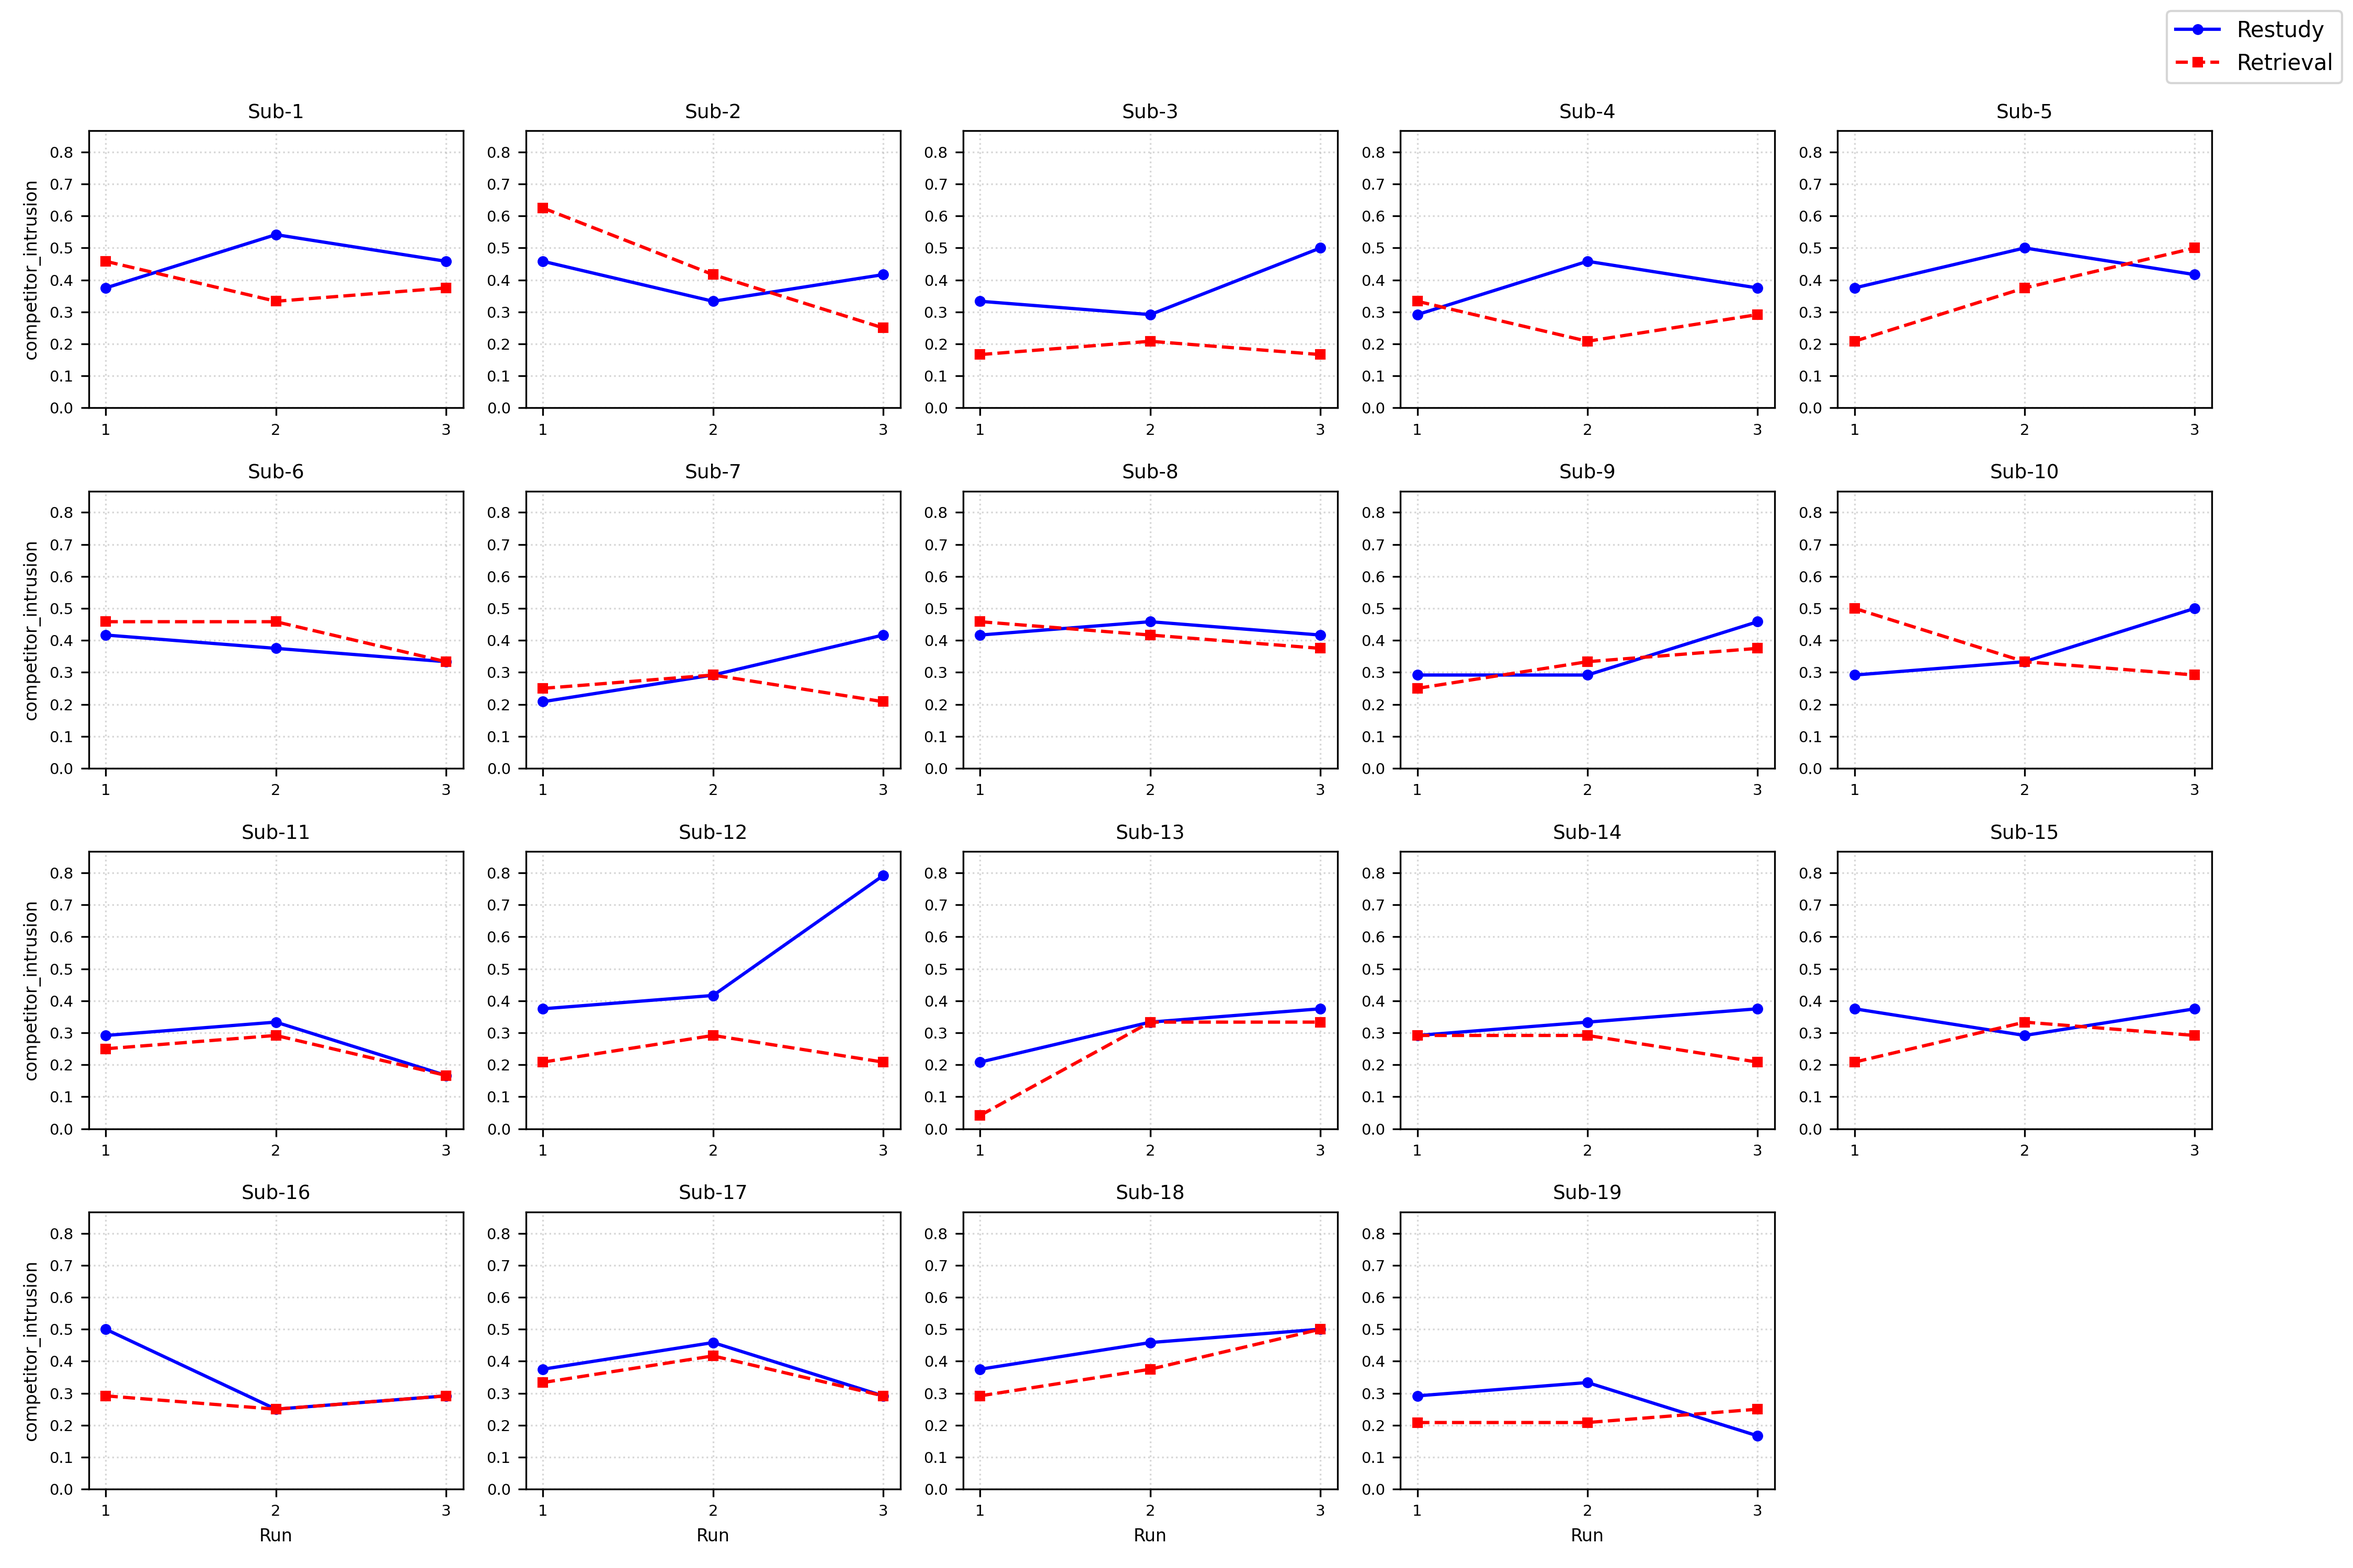
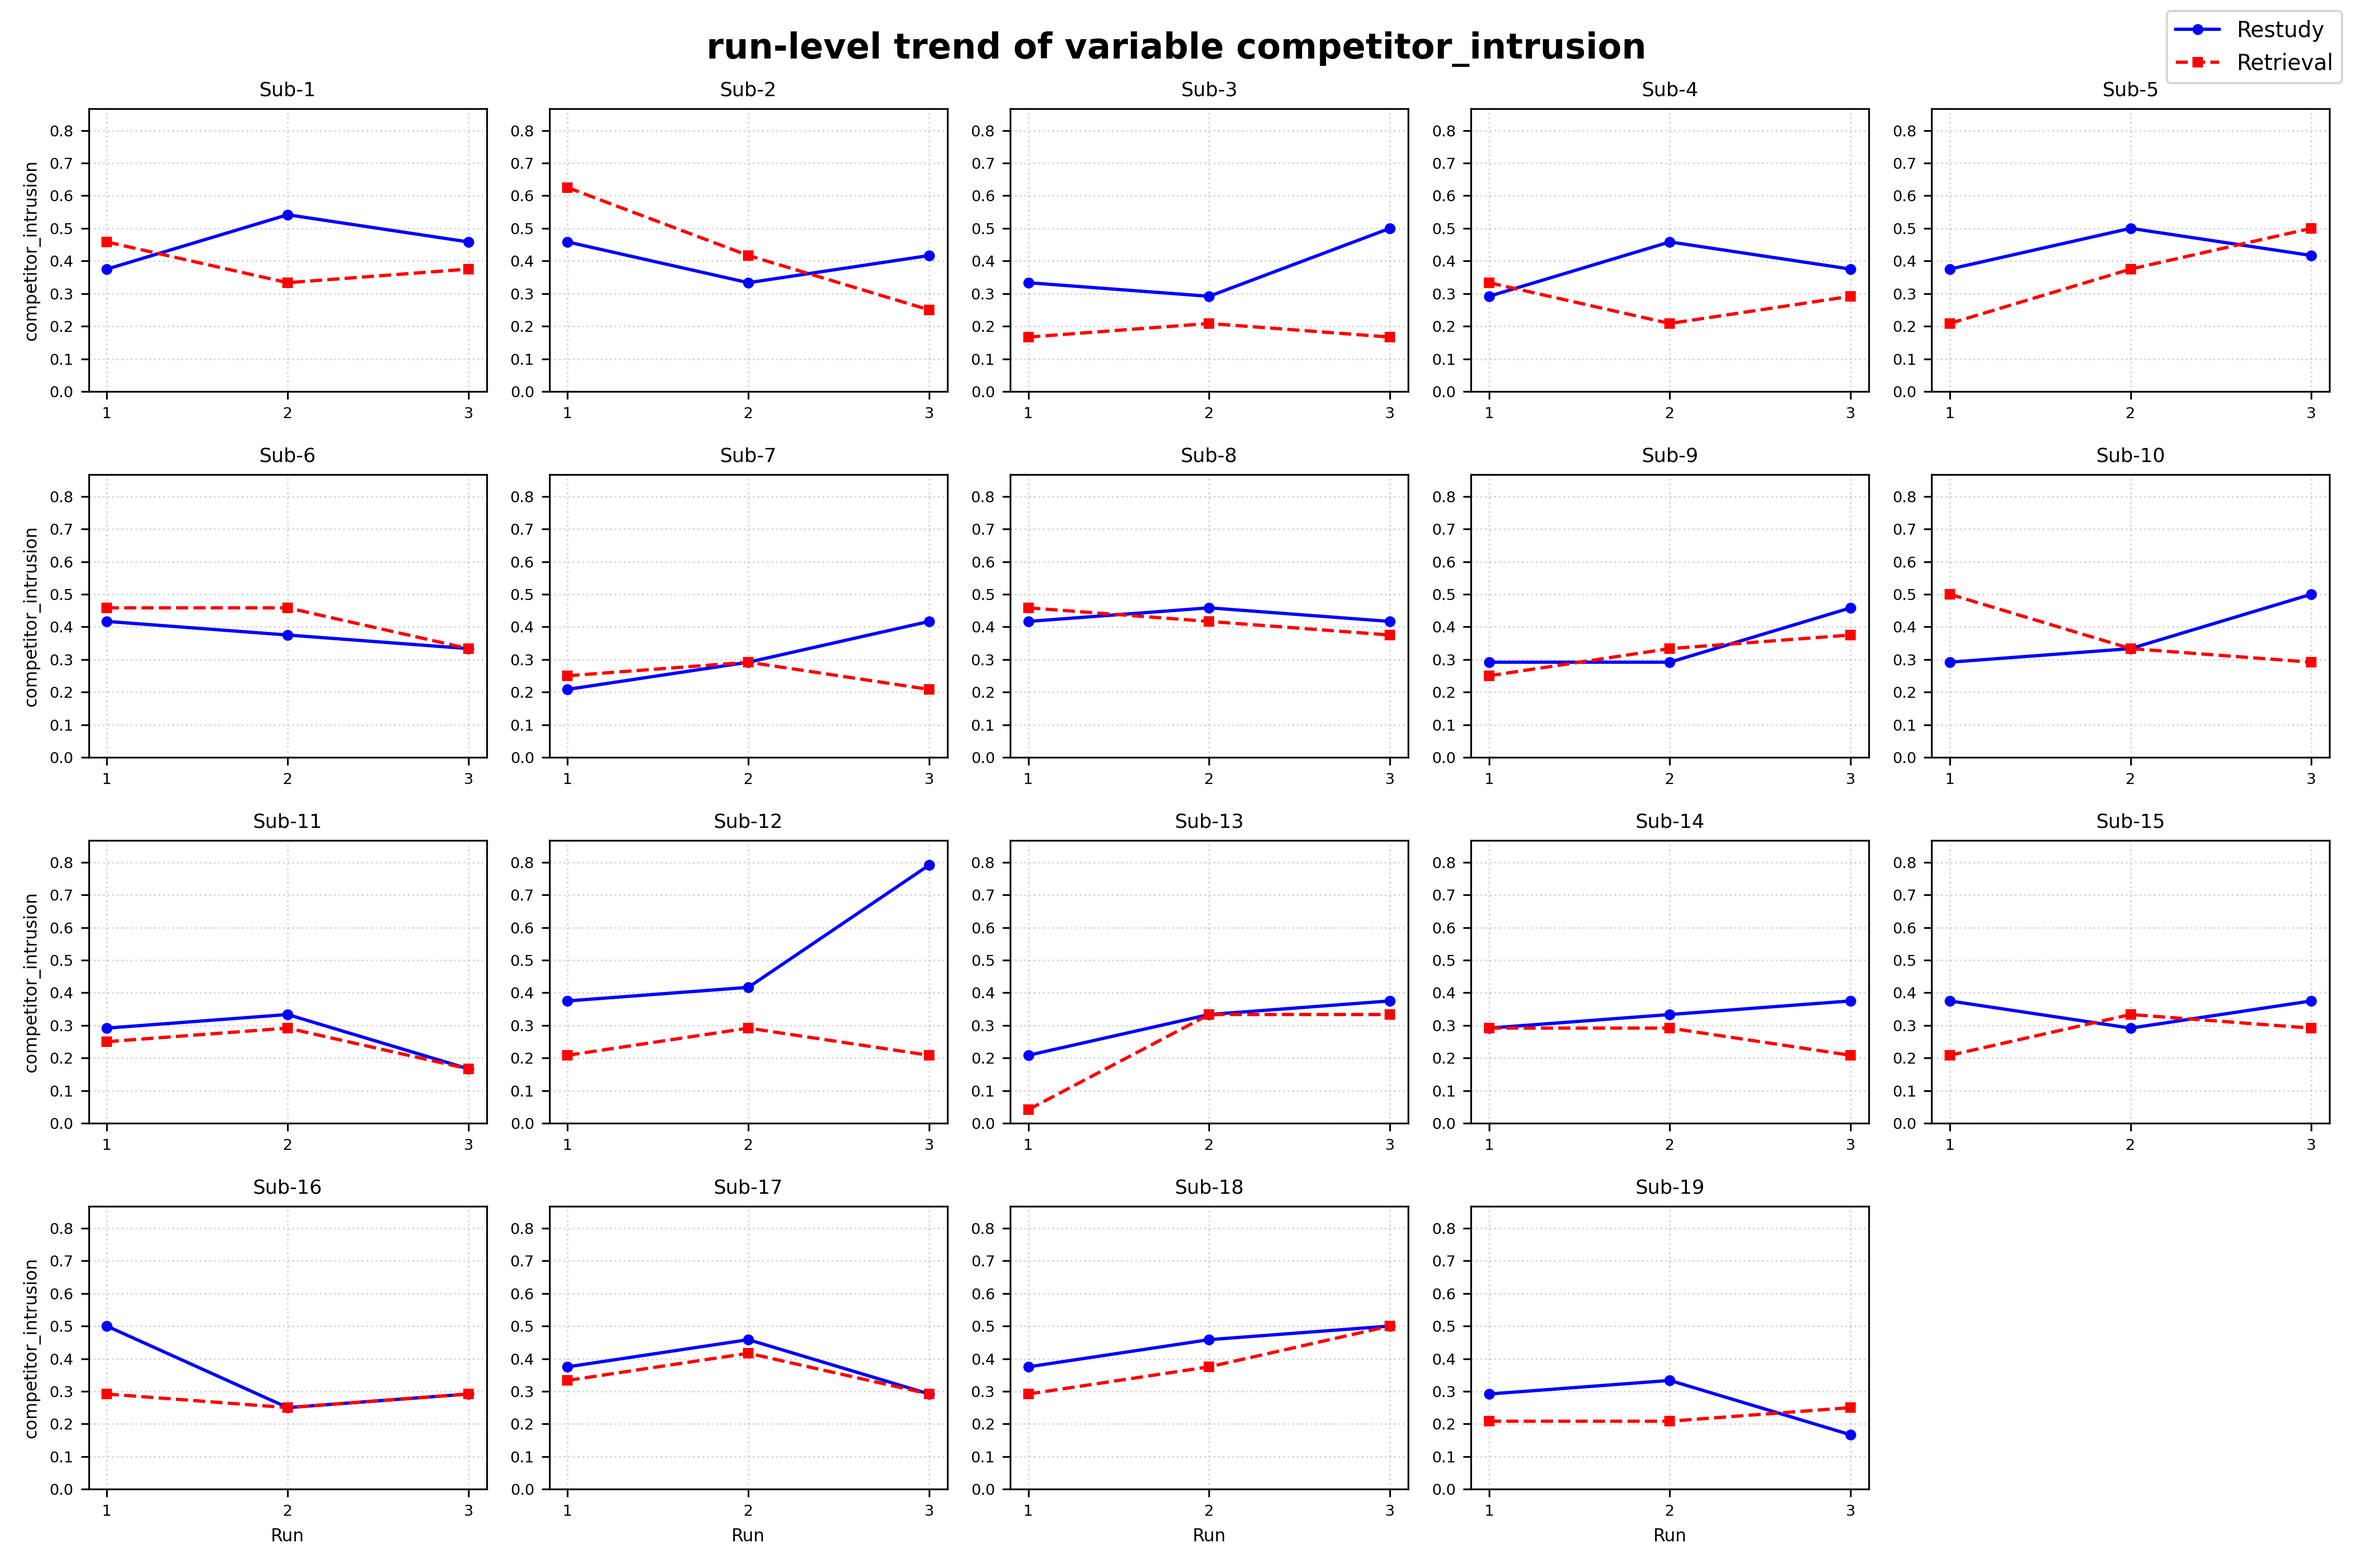
holm correct import correct lib run-level participant-difference correlation

diff --git a/codings/core calculation/cal_5.py b/codings/core calculation/cal_5.py
@@ -1,0 +1,97 @@
+# this file is used to make ANOVA and LMM of Condition * Runs
+import pandas as pd
+from statsmodels.formula.api import mixedlm
+from statsmodels.stats.anova import AnovaRM
+import os
+import csv
+import sys
+import matplotlib.pyplot as plt
+import numpy as np
+import scipy.stats as stats
+
+FILE_NAME = 'results/statistics_result_in_runs.tsv'
+
+def main():
+
+    OUTPUT_FILE = 'results/run-level_results.txt'
+    log_file = open(OUTPUT_FILE, 'a', encoding='utf-8')
+    sys.stdout = log_file
+
+    df = pd.read_csv(FILE_NAME, sep='\t')
+    
+    target_cols = ['restudy_target', 'retrieval_target']
+    df_target = df.melt(
+        id_vars=['sub_id', 'run_id'],
+        value_vars=target_cols,
+        var_name='condition',
+        value_name='target_accuracy'
+    )
+    df_target['condition'] = df_target['condition'].map({
+        'restudy_target': 'restudy',
+        'retrieval_target': 'retrieval'
+    })
+
+    ### print(df_target)
+    
+    competitor_cols = ['restudy_competitor', 'retrieval_competitor']
+    df_competitor = df.melt(
+        id_vars=['sub_id', 'run_id'],
+        value_vars=competitor_cols,
+        var_name='condition',
+        value_name='competitor_accuracy'
+    )
+    df_competitor['condition'] = df_competitor['condition'].map({
+        'restudy_competitor': 'restudy',
+        'retrieval_competitor': 'retrieval'
+    })
+    
+
+    rt_cols = ['restudy_median_correct_response_latency', 'retrieval_median_correct_response_latency']
+    df_rt = df.melt(
+        id_vars=['sub_id', 'run_id'],
+        value_vars=rt_cols,
+        var_name='condition',
+        value_name='median_rt'
+    )
+    df_rt['condition'] = df_rt['condition'].map({
+        'restudy_median_correct_response_latency': 'restudy',
+        'retrieval_median_correct_response_latency': 'retrieval'
+    })
+    
+
+    df_long = df_target.merge(df_competitor, on=['sub_id', 'run_id', 'condition']) \
+                       .merge(df_rt, on=['sub_id', 'run_id', 'condition'])
+    
+
+    df_long['sub_id'] = df_long['sub_id'].astype('category')
+    df_long['run_id'] = df_long['run_id'].astype('category')
+    df_long['condition'] = df_long['condition'].astype('category')
+
+    # print(df_long)
+
+    for dep, name in [('target_accuracy', 'target recall'),
+                      ('competitor_accuracy', 'competitor intrusion'),
+                      ('median_rt', 'correct response latency')]:
+        analyze_anova(dep, name, df_long=df_long)
+
+
+    sys.stdout = sys.__stdout__
+    log_file.close()
+
+    print("finish")
+
+
+
+def analyze_anova(dep_var, dep_name, df_long):
+
+    print(f"ANOVA: {dep_name} ({dep_var})")
+
+    res = AnovaRM(df_long, depvar=dep_var, subject='sub_id', 
+                  within=['condition', 'run_id'], aggregate_func='mean').fit()
+    
+    print(res)
+    return res
+
+if __name__ == '__main__':
+
+    main()

diff --git a/codings/core calculation/cal_4.py b/codings/core calculation/cal_4.py
@@ -12,7 +12,7 @@ import numpy as np
 
 DECIMAL_PLACES = 5
 FILE_NAME = 'statistics_result_in_runs.tsv'
-OUTPUT_DIR = 'figures'
+OUTPUT_DIR = 'results/figures'
 
 def main():
 
@@ -62,7 +62,7 @@ def main():
 
 def one_sub(sub_id, run_id):
 
-    filename = f'day3_task-retrieval raw data/sub-{sub_id:03d}_ses-day3_task-retrieval_run-{run_id}_events.tsv'
+    filename = f'raw data/day3_task-retrieval raw data/sub-{sub_id:03d}_ses-day3_task-retrieval_run-{run_id}_events.tsv'
     with open(filename, 'r', encoding='utf-8') as file:
         reader = csv.reader(file, delimiter='\t')
         header = next(reader)            
@@ -151,6 +151,7 @@ def draw():
             y_max = y_max + margin
         
         fig, axes = plt.subplots(nrows, ncols, figsize=(15, 10))
+        fig.suptitle(f'run-level trend of variable {label}', fontsize=16, fontweight='bold')
         axes_flat = axes.flatten()
         
         for idx, sub_id in enumerate(subjects):
@@ -188,10 +189,12 @@ def draw():
         fig.legend(handles, labels, loc='upper right', fontsize=10)
 
         os.makedirs(OUTPUT_DIR, exist_ok=True)
-        plt.tight_layout(rect=[0, 0, 0.95, 0.95])
+        plt.tight_layout(rect=[0, 0, 1, 1])
         save_path = os.path.join(OUTPUT_DIR, f'{col_prefix}_small_multiples.png')
         plt.savefig(save_path, dpi=300)
         plt.close(fig)
+
+    print("finish")
 
 
 

diff --git a/codings/core calculation/cal_6.py b/codings/core calculation/cal_6.py
@@ -1,0 +1,39 @@
+# this file is used to make Pearson and Spearson correlation of 
+# the target-recall benefit and competitor-intrusion reduction
+import pandas as pd
+from scipy.stats import pearsonr, spearmanr
+import sys
+
+DECIMAL_PLACES = 5
+FILE_NAME = 'results/statistics_result.tsv'
+OUTPUT_DIR = 'results/figures'
+
+def main():
+
+    OUTPUT_FILE = 'results/participant_differences.txt'
+    log_file = open(OUTPUT_FILE, 'a', encoding='utf-8')
+    sys.stdout = log_file
+
+    df = pd.read_csv(FILE_NAME, sep='\t') 
+
+    target = df['target-recall benefit'].iloc[:19]
+    competitor = df['competitor-intrusion reduction'].iloc[:19]
+
+    pearson_r, pearson_p = pearsonr(target, competitor)
+    spearman_rho, spearman_p = spearmanr(target, competitor)
+
+    print(f"Pearson: r={pearson_r:.5f}, p={pearson_p:.5f}")
+    print(f"Spearman: ρ={spearman_rho:.5f}, p={spearman_p:.5f}")
+
+
+    sys.stdout = sys.__stdout__
+    log_file.close()
+
+    print("finish")
+
+
+
+
+
+if __name__ == '__main__':
+    main()
